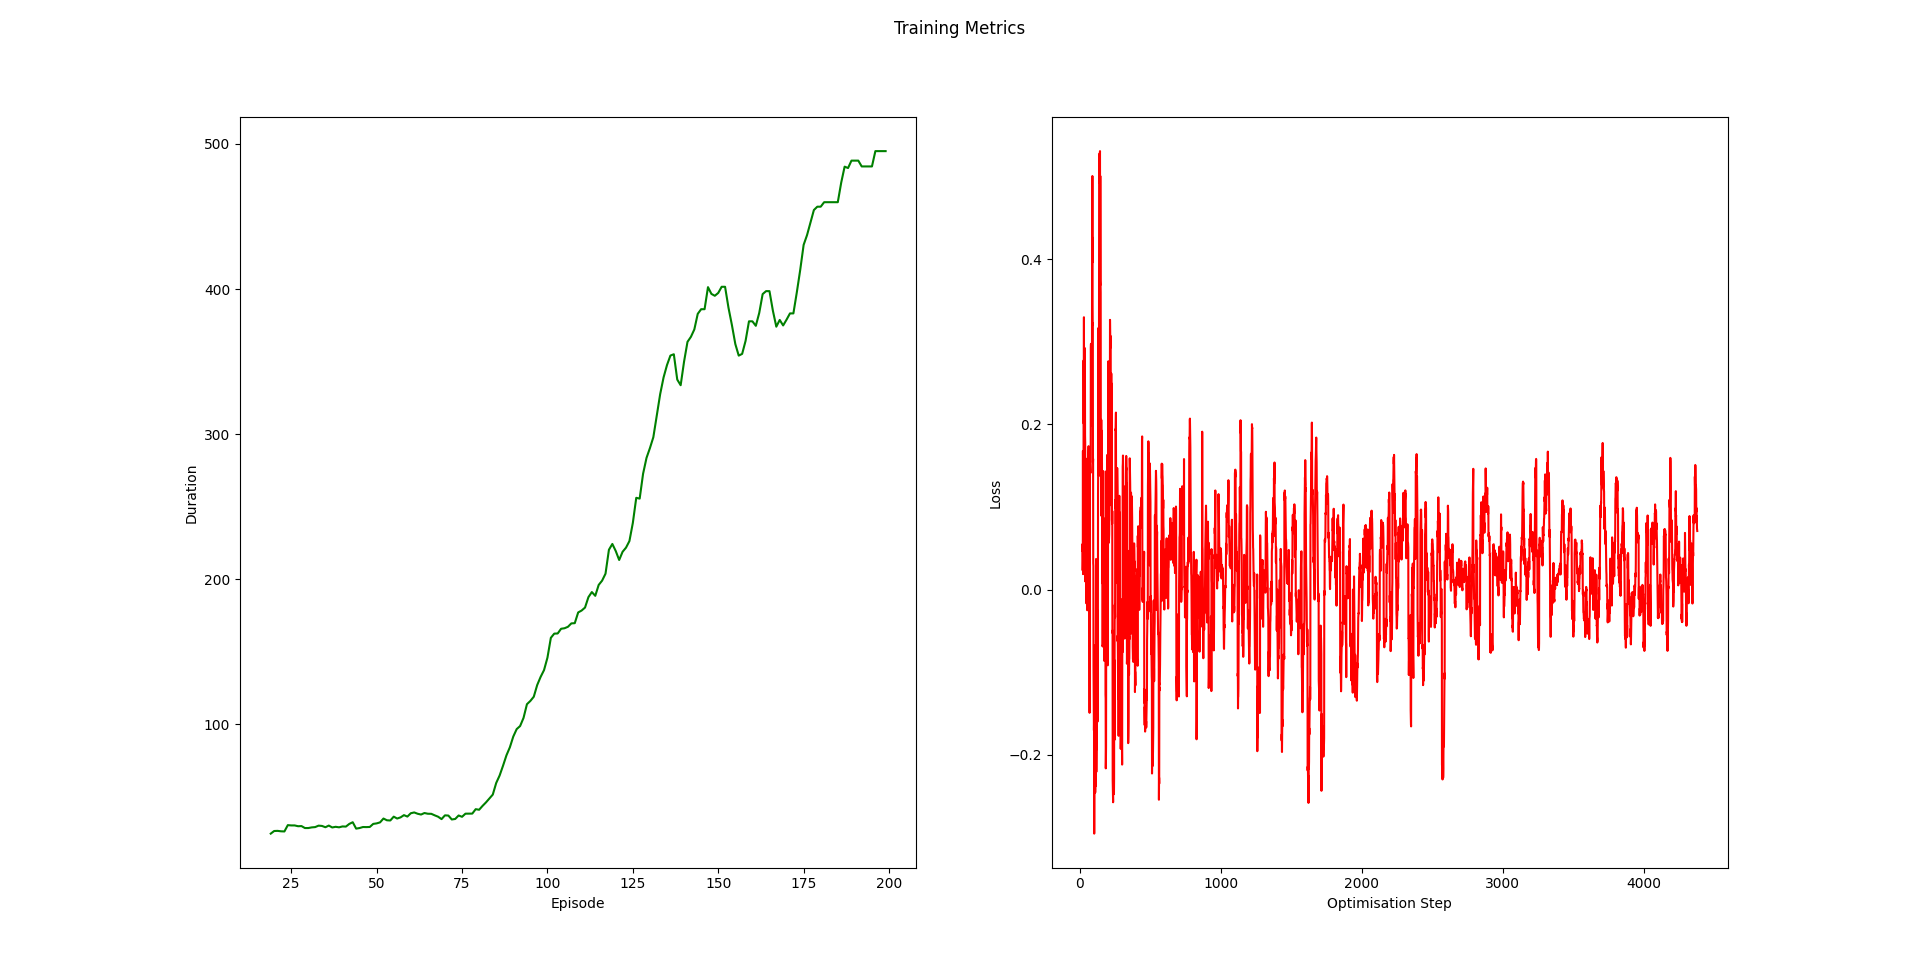
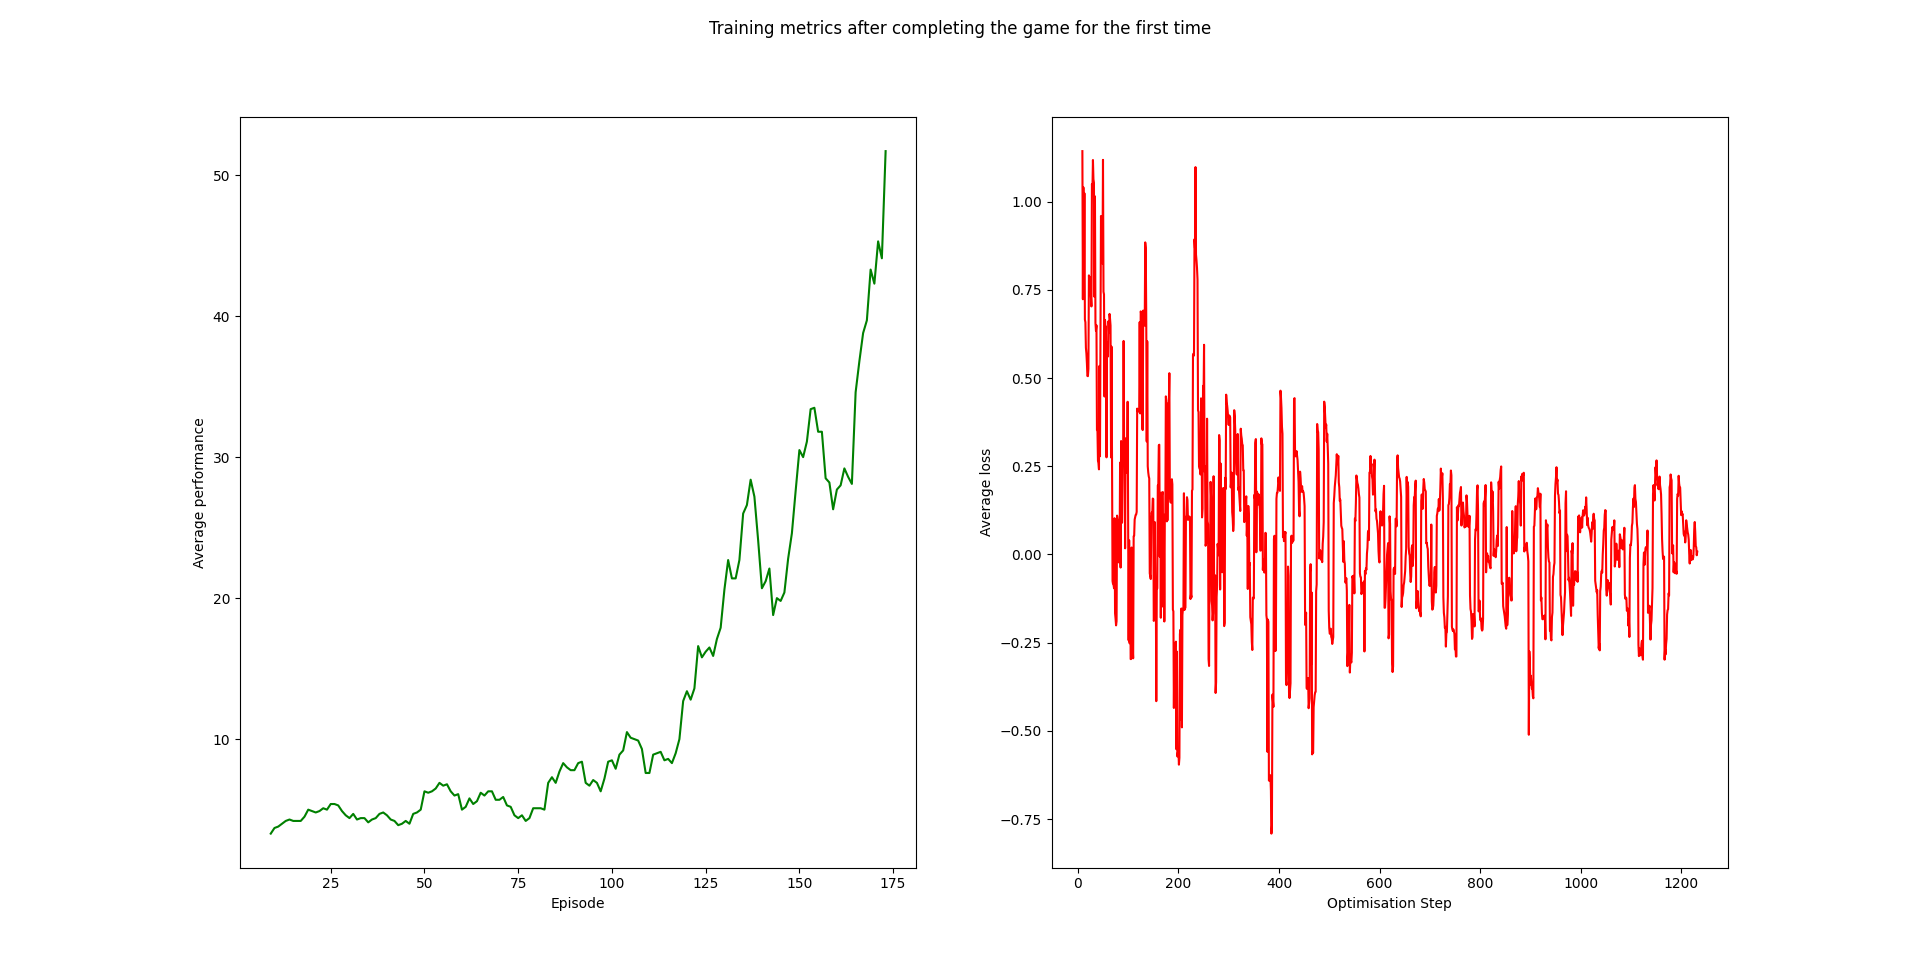
Training now terminated when the game is completed

diff --git a/main.py b/main.py
@@ -1,5 +1,6 @@
 import math
 import sys
+
 import gym
 import matplotlib.pyplot as pyplot
 import numpy
@@ -7,18 +8,19 @@ import numpy
 import pygame  # Required for OpenAI Gym rendering
 import torch
 from torch import nn, Tensor
+
 from actor_critic_agent import ActorCriticAgent
 
 # Training and evaluation parameters
-EPISODES: int = 200
+GAME: str = 'CartPole-v1'
 LEARNING_STEPS: int = 10
 LEARNING_RATE: float = 0.001
 REWARD_DISCOUNT_FACTOR: float = 0.95
 CRITIC_LOSS_SCALING: float = 0.1
 MODEL_FILE: str = 'a2c.mdl'
 TRAIN_MODEL: bool = True
-EVALUATION_STEPS: int = 500
-AVERAGING_WINDOW: int = round(EPISODES / 10)
+MAX_EPISODE_DURATION: int = 500
+AVERAGING_WINDOW: int = 10
 TRAINING_OBSERVATION_NOISE_RATIO: float = 0.0  # Perfect training
 EVALUATION_OBSERVATION_NOISE_RATIO: float = 0.1  # Realistic evaluation
 
@@ -26,27 +28,24 @@ EVALUATION_OBSERVATION_NOISE_RATIO: float = 0.1  # Realistic evaluation
 # Training loop
 def train() -> None:
     # Create environment and agent
-    environment: gym.Env = gym.make('CartPole-v1')
+    environment: gym.Env = gym.make(GAME)
     agent: nn.Module = ActorCriticAgent()
 
-    # Create a gradient descent optimiser with a learning rate of 0.001
+    # Create a gradient descent optimiser
     optimizer: torch.optim.Optimizer = torch.optim.Adam(agent.parameters(), lr=LEARNING_RATE)
 
     # Store episode metrics
-    episode_durations: list[int] = []
+    episode_performances: list[int] = []
     losses: list[float] = []
+    truncated: bool = False
 
-    for episode in range(EPISODES):
-
-        # Print training progress
-        print_training_progress(episode)
+    while not truncated:
 
         # Reset the environment and observe initial state
         observation, info = environment.reset()
 
         # Initialise episode data
         terminated: bool = False
-        truncated: bool = False
         values: list[Tensor] = []
         log_action_probabilities: list[Tensor] = []
         rewards: list[int] = []
@@ -98,10 +97,13 @@ def train() -> None:
                 step = 0
 
         # Store the episode length
-        episode_durations.append(episode_duration)
+        episode_performances.append(math.ceil((episode_duration / MAX_EPISODE_DURATION) * 100))
+
+        # Print training progress
+        print_training_progress(episode_performances)
 
     # Plot training metrics
-    plot_training_metrics(episode_durations, losses)
+    plot_training_metrics(episode_performances, losses)
 
     # Save the agent
     torch.save(agent.state_dict(), MODEL_FILE)
@@ -150,7 +152,7 @@ def optimise(agent: nn.Module, optimizer: torch.optim.Optimizer, log_action_prob
 # Evaluation loop
 def evaluate() -> None:
     # Create environment and agent
-    environment: gym.Env = gym.make('CartPole-v1', render_mode='human')
+    environment: gym.Env = gym.make(GAME, render_mode='human')
     agent: nn.Module = ActorCriticAgent()
 
     # Load the trained agent parameters
@@ -163,9 +165,10 @@ def evaluate() -> None:
     observation, info = environment.reset()
 
     # Play the game
+    truncated: bool = False
     terminated: bool = False
     step: int = 0
-    while not terminated and step < EVALUATION_STEPS:
+    while not terminated and not truncated:
         step += 1
 
         # Run the agent
@@ -196,23 +199,24 @@ def add_observation_noise(observation: numpy.ndarray, noise_ratio: float) -> num
 
 
 # Print progress to terminal
-def print_training_progress(episode: int) -> None:
-    percentage: int = math.ceil(((episode + 1) / EPISODES) * 100)
-    sys.stdout.write('\rTraining (' + str(percentage) + '%)')
+def print_training_progress(episode_performances: list[int]) -> None:
+    episodes: int = len(episode_performances)
+    sys.stdout.write('\rLearning to play ' + GAME + ', performance: ' + str(episode_performances[episodes - 1])
+                     + '% after ' + str(episodes) + ' training episodes.')
     sys.stdout.flush()
 
 
 # Plot training metrics
-def plot_training_metrics(episode_durations: list[int], losses: list[float]) -> None:
-    pyplot.suptitle('Training Metrics')
+def plot_training_metrics(episode_performances: list[int], losses: list[float]) -> None:
+    pyplot.suptitle('Training metrics after completing the game for the first time')
     pyplot.subplot(1, 2, 1)
-    pyplot.plot(average_metrics(episode_durations), color='green')
+    pyplot.plot(average_metrics(episode_performances), color='green')
     pyplot.xlabel('Episode')
-    pyplot.ylabel('Duration')
+    pyplot.ylabel('Average performance')
     pyplot.subplot(1, 2, 2)
     pyplot.plot(average_metrics(losses), color='red')
     pyplot.xlabel('Optimisation Step')
-    pyplot.ylabel('Loss')
+    pyplot.ylabel('Average loss')
     pyplot.show()
 
 

diff --git a/README.md b/README.md
@@ -16,11 +16,11 @@ The agent is a two-headed feed-forward neural network:
 
 _Deep Reinforcement Learning in Action, Manning, 2020_
 
-Here the agent is being trained to play Cart Pole. The Cart Pole environment truncates training at 500 steps, so this is the maximum achievable episode duration.
+Here the agent is being trained to play Cart Pole until it completes the game.
 
 ![Training metrics](images/training-metrics.png)
 
-And here the trained agent is playing the game unaided:
+And here the trained agent is playing the game unaided with 10% observation noise:
 
 ![Evaluations](images/evaluation.png)
 
